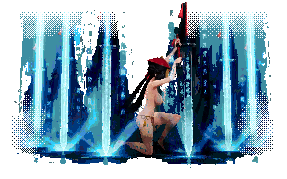
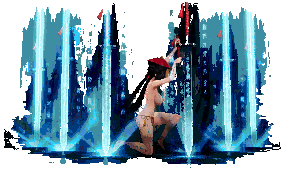
Zhusha cut-offs r3: no checkerboard heals left; cut ends authored by kind (the Q slash a frayed brush end, light fields in tongues, smoke and glow in lumps)
- The round-1 heals that were still a regular 50% checkerboard dither (screen-door speckle the moment an art px is
  bigger than a screen px) are redone from live's px (lanes\zhusha-1021b\cutoffs\r3\tools\reheal.py):
  skill_q f006-f007: the Q's red slash no longer ends in a white rectangle at the frame's corner; its end is a brush
  stroke's pointed, frayed end along its streaks, wrapped in its own brown / red rim. skill_q f005: the beam's tail
  rows end at varied lengths. e_tap f010: the ground smoke's back end in rounded lumps with its outline put back;
  e_tap f012-f013: the pillar remnant's flat top in tongues of light, its straight left side lumpy (her sleeve and hand
  protected). uf_jump_arc f001 / f008 / f009: the floor glow slab's ends rounded lumps. uf_skill_q f009-f014: the
  light-pillar field's top in pointed tongues with rounded shoulders, its sides thinning in lumps of mist (ghost swords,
  her skin and hat protected).
- Hit boxes unchanged: derived.json's rects / active / root / feet / hits equal live's (0 differences; one uf_skill_q
  f014 cell kept by r2's hitkeep.py).
- No checkerboard left in any changed drawing (r3\tools\checkers.py: none).
Evidence: lanes\zhusha-1021b\cutoffs\ba\r3\ (same capture scripts, before = origin/main 4d48bcd0, after = this;
sheets\q_slash_1to1.png, e_pillar_close_zoom.png, ufq_field_close.png, ufjump_glow_close.png, static_reheal_live_r2_r3.png).

diff --git a/docs/character/PIPELINE.md b/docs/character/PIPELINE.md
@@ -1359,6 +1359,14 @@ charScale (1.1 x 96 = 105.6 world px, `zhusha/feel.json`), i.e. 0.825 world px p
   (`lanes\zhusha-1021b\cutoffs\r2\tools\boundfray.py`, checked by `hitkeep.py --dry`). [proven: 0 differences vs 3e994938]
 - (cutoffs r2) m1_4 ends on its own last drawing (blade upright before her) and goes to rest; its return role
   guard_to_rest (a full spin with big arcs) is behind feel.json `windDown.finisherReturn` (false): Dex's call.
+- (cutoffs r3 2026-10-22) No heal ends in a regular checkerboard dither (it reads as screen-door speckle the moment an
+  art px is bigger than a screen px). A cut end is AUTHORED by its kind (`lanes\zhusha-1021b\cutoffs\r3\tools\reheal.py`,
+  from live's px, never on top of an old heal): a streaked mass (the Q's red slash) gets a brush stroke's pointed, frayed
+  end along its streaks wrapped in its own rim colours; a beam / pillar / light field gets its lines shortened by pointed
+  tongues (V notches between, rounded shoulders where a field's corner was square); smoke, mist and floor glow end in
+  rounded lumps, with the shape's outline put back where it had one; tiny islands go. Her skin, outfit, hat, blade and
+  the ghost swords are protected (warm and near-black px are never removed, and an effect's edge is measured from the
+  effect, not from her sleeve beside it). Then `derive.mjs` + `hitkeep.py --dry` (0 differences vs live). [proven]
 
 ---
 
